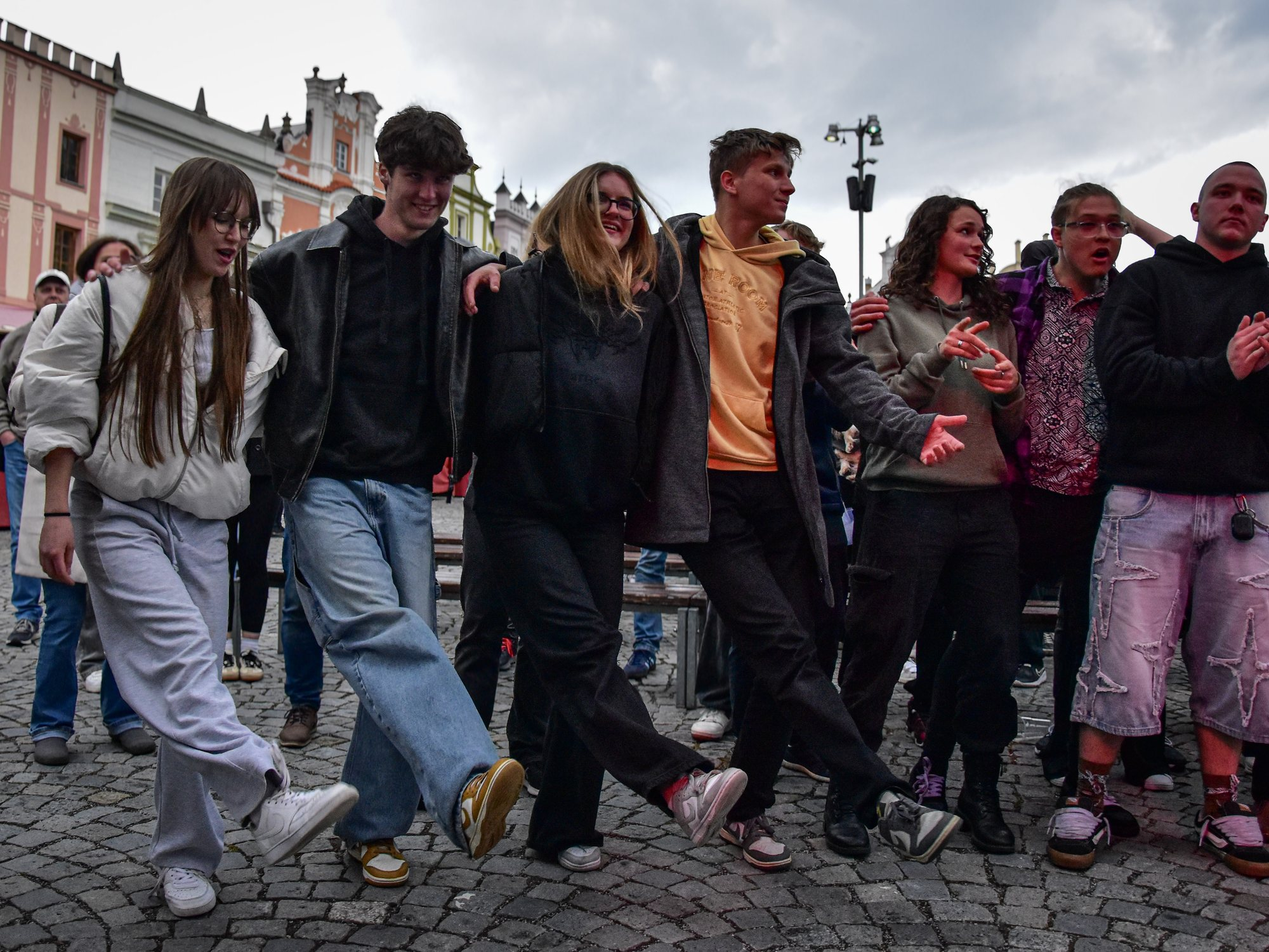
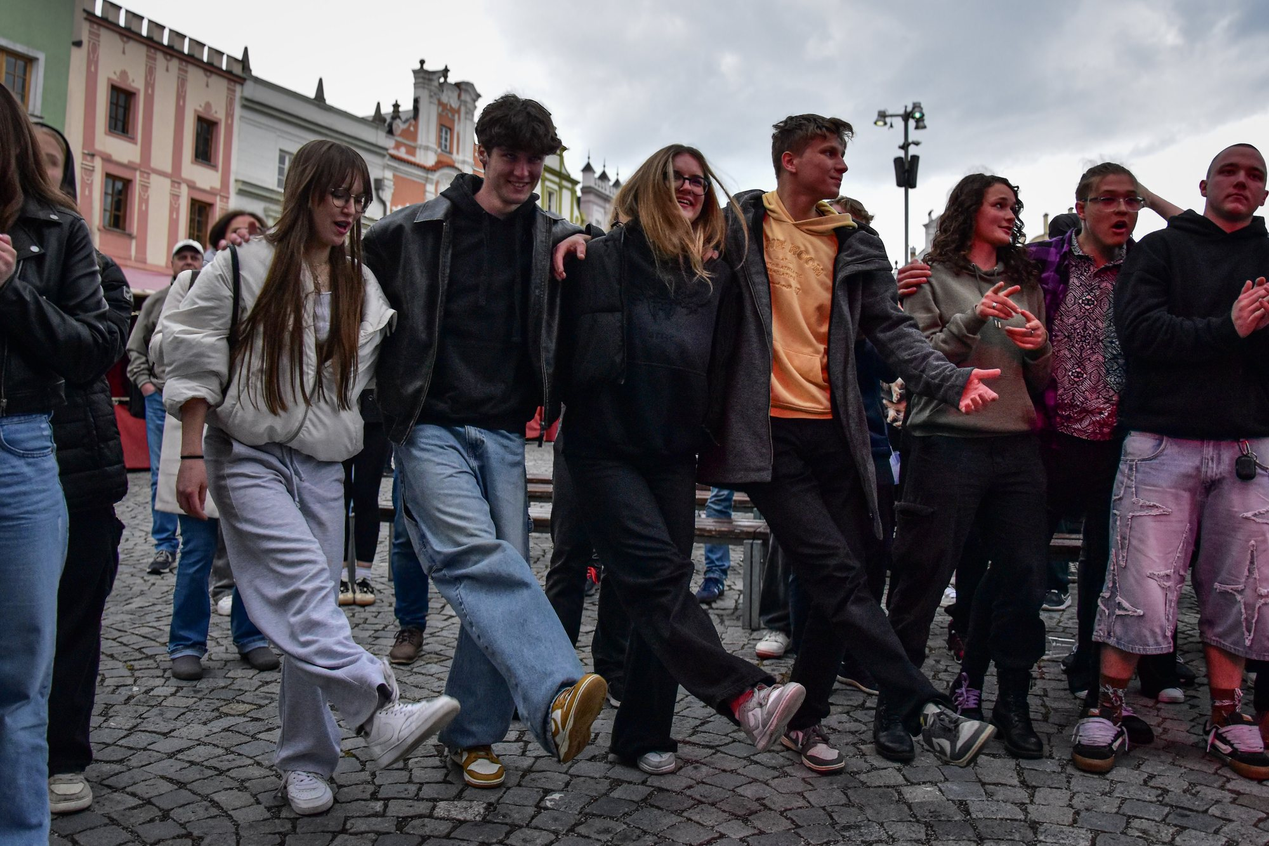
O Majálesu: dav před pódiem na Majálesu 2026
Hlavní fotka sekce je teď plné náměstí před pódiem při koncertu
(05 majales/edit/IMG_0622, skóre 10/10, bez alkoholu; SPZ auta vpravo
je skoro celá schovaná za chodkyní a na webu nečitelná). Tanec v řadě
(2025-dsc-5833) zpátky jen v galerii, v celém záběru bez výřezu.

diff --git a/src/data/fotky.ts b/src/data/fotky.ts
@@ -40,6 +40,7 @@ import f36 from '../assets/foto/2026-kral-a-kralovna-img-0040.jpg';
 import f37 from '../assets/foto/2026-moderatori-img-0233.jpg';
 import f38 from '../assets/foto/2026-kapely-img-0515.jpg';
 import f39 from '../assets/foto/2025-dsc-5833.jpg';
+import f40 from '../assets/foto/2026-dav-img-0622.jpg';
 
 export type Foto = { klic: string; img: ImageMetadata; rok: number; typ: string; role: string[]; alt: string };
 
@@ -83,7 +84,8 @@ export const FOTKY: Foto[] = [
   { klic: "2026-kral-a-kralovna-img-0040", img: f36, rok: 2026, typ: "king_queen", role: ["program:kral"], alt: "Král a královna Majálesu 2026 s korunami, diplomem a kyticí na pódiu" },
   { klic: "2026-moderatori-img-0233", img: f37, rok: 2026, typ: "portrait", role: ["partneri"], alt: "Moderátoři Majálesu s mikrofony na Havlíčkově náměstí" },
   { klic: "2026-kapely-img-0515", img: f38, rok: 2026, typ: "band", role: ["program:stage"], alt: "Saxofonista hraje na pódiu ve fialovém světle" },
-  { klic: "2025-dsc-5833", img: f39, rok: 2025, typ: "crowd", role: ["o-majalesu"], alt: "Studenti tančí v řadě na Havlíčkově náměstí" },
+  { klic: "2025-dsc-5833", img: f39, rok: 2025, typ: "crowd", role: [], alt: "Studenti tančí v řadě na Havlíčkově náměstí" },
+  { klic: "2026-dav-img-0622", img: f40, rok: 2026, typ: "crowd", role: ["o-majalesu"], alt: "Plné náměstí před pódiem při koncertu na Majálesu 2026" },
 ];
 
 export const podleRole = (role: string) => FOTKY.find((f) => f.role.includes(role))!;
